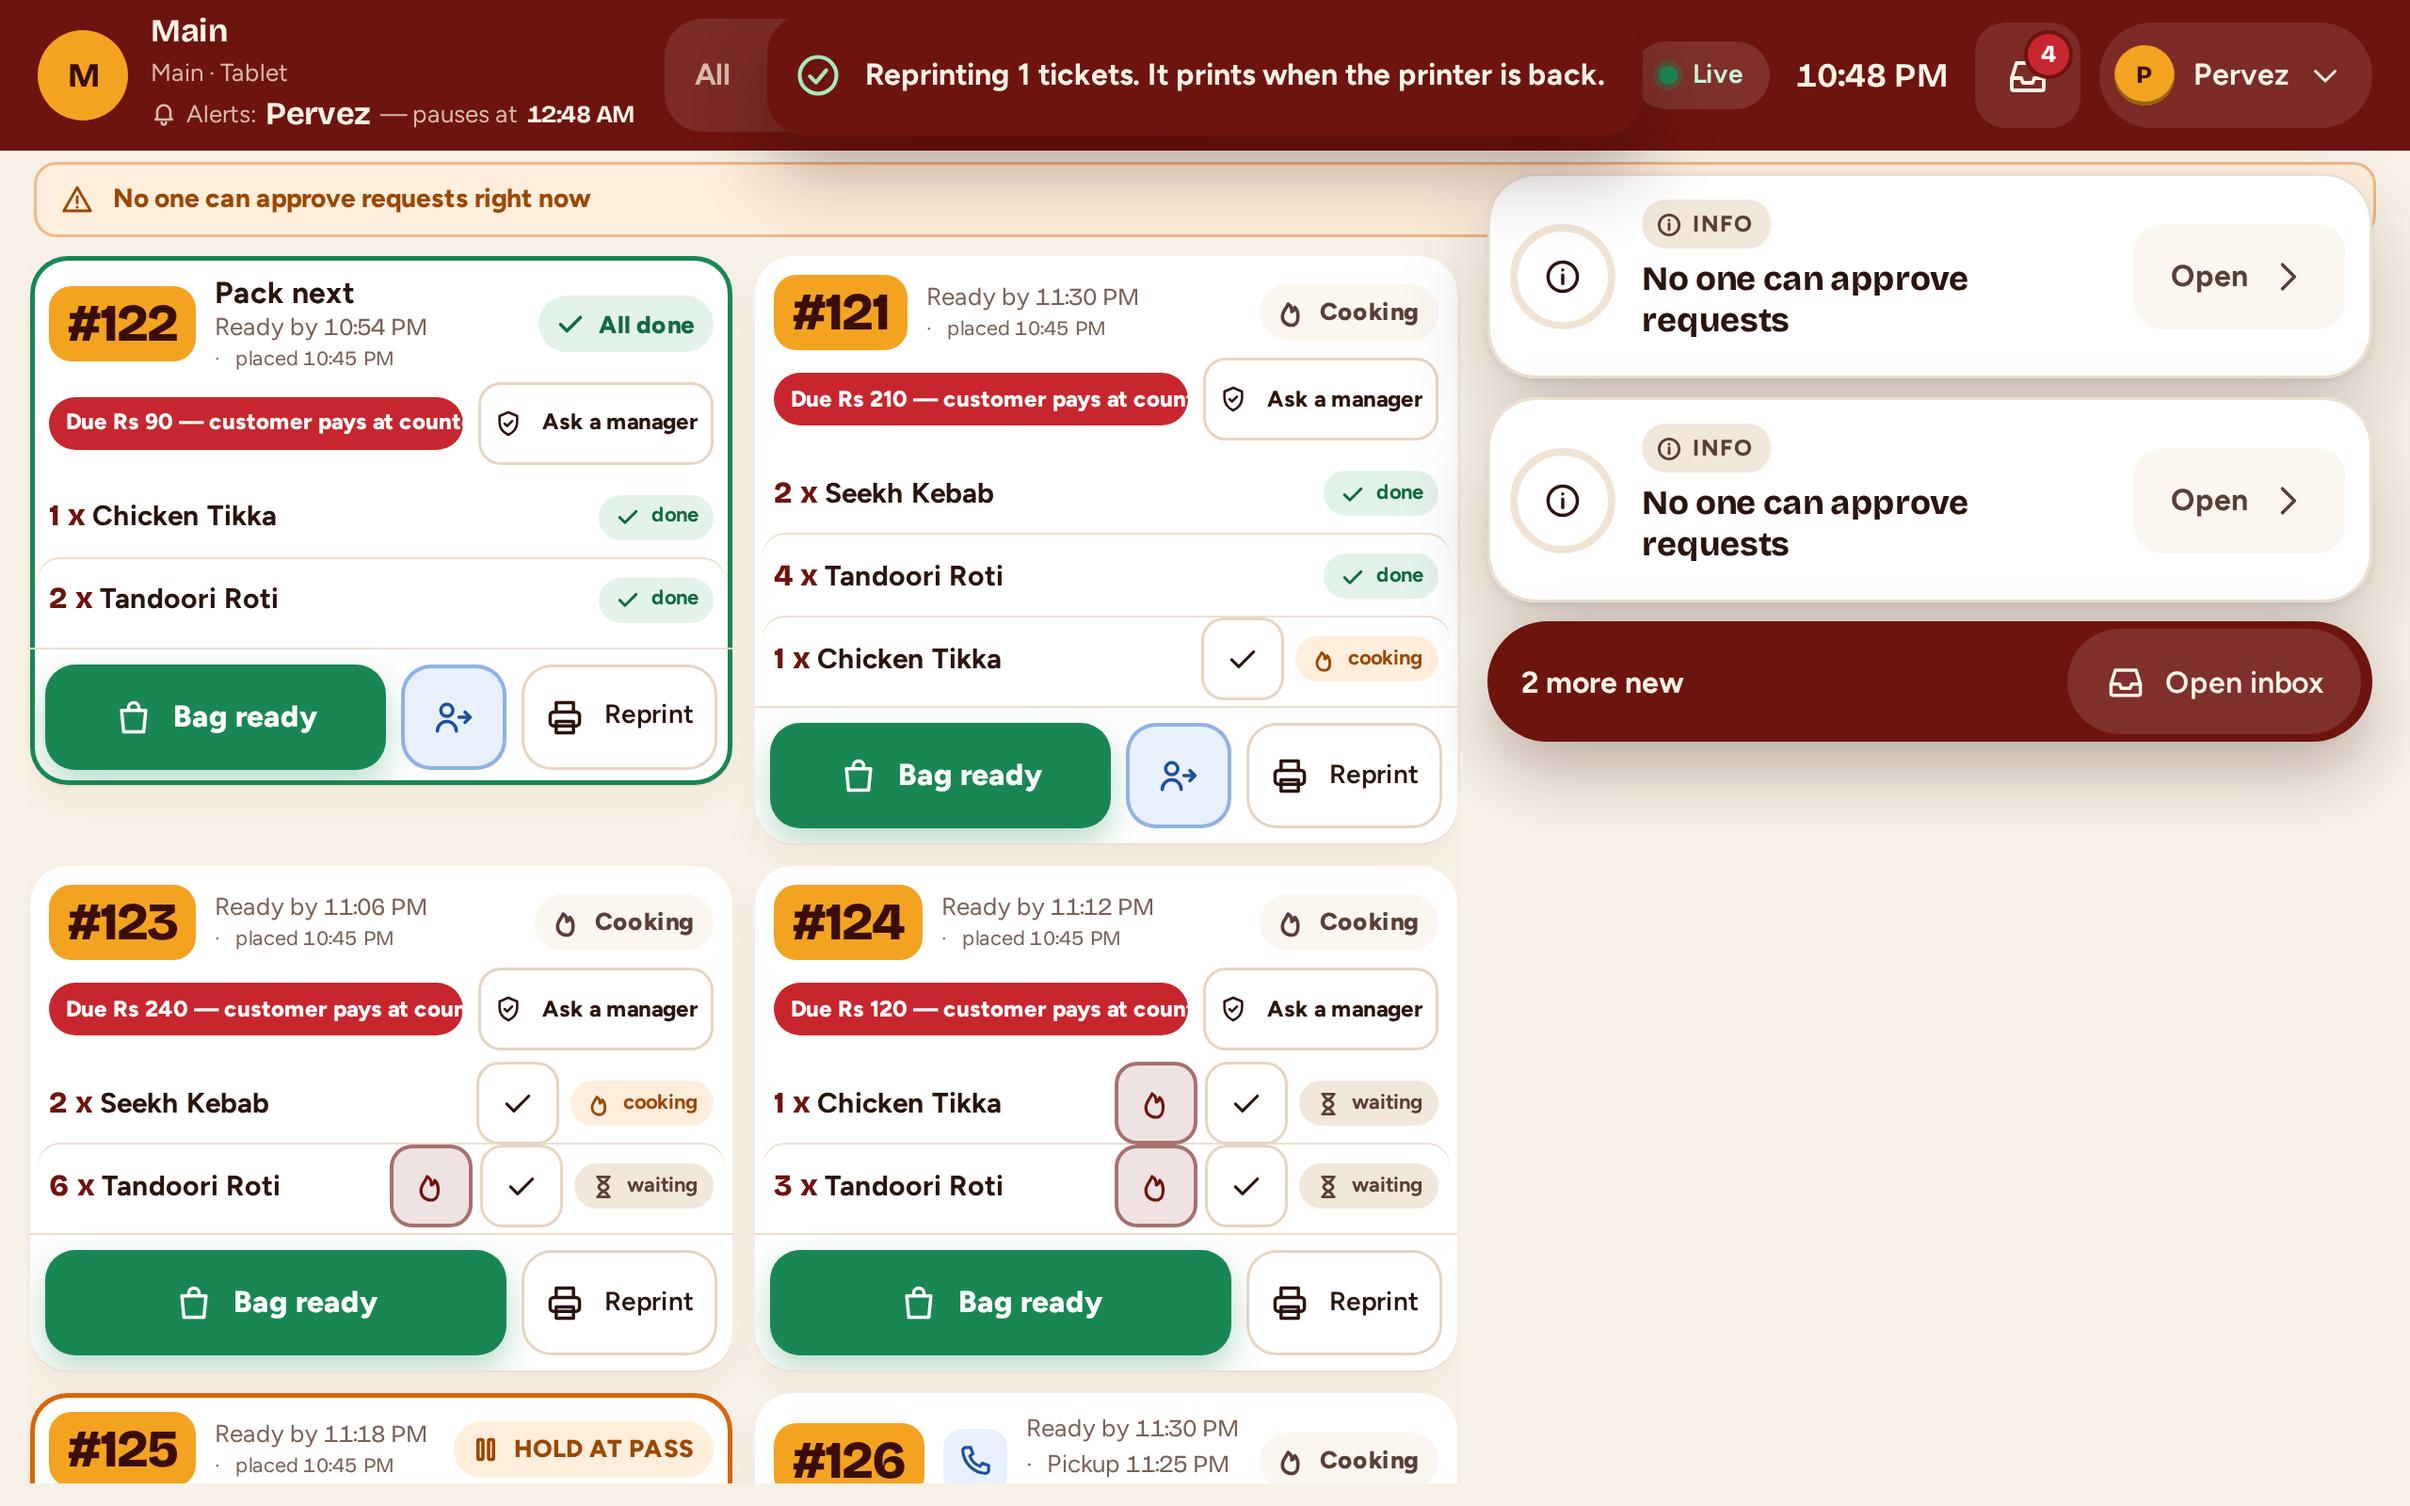
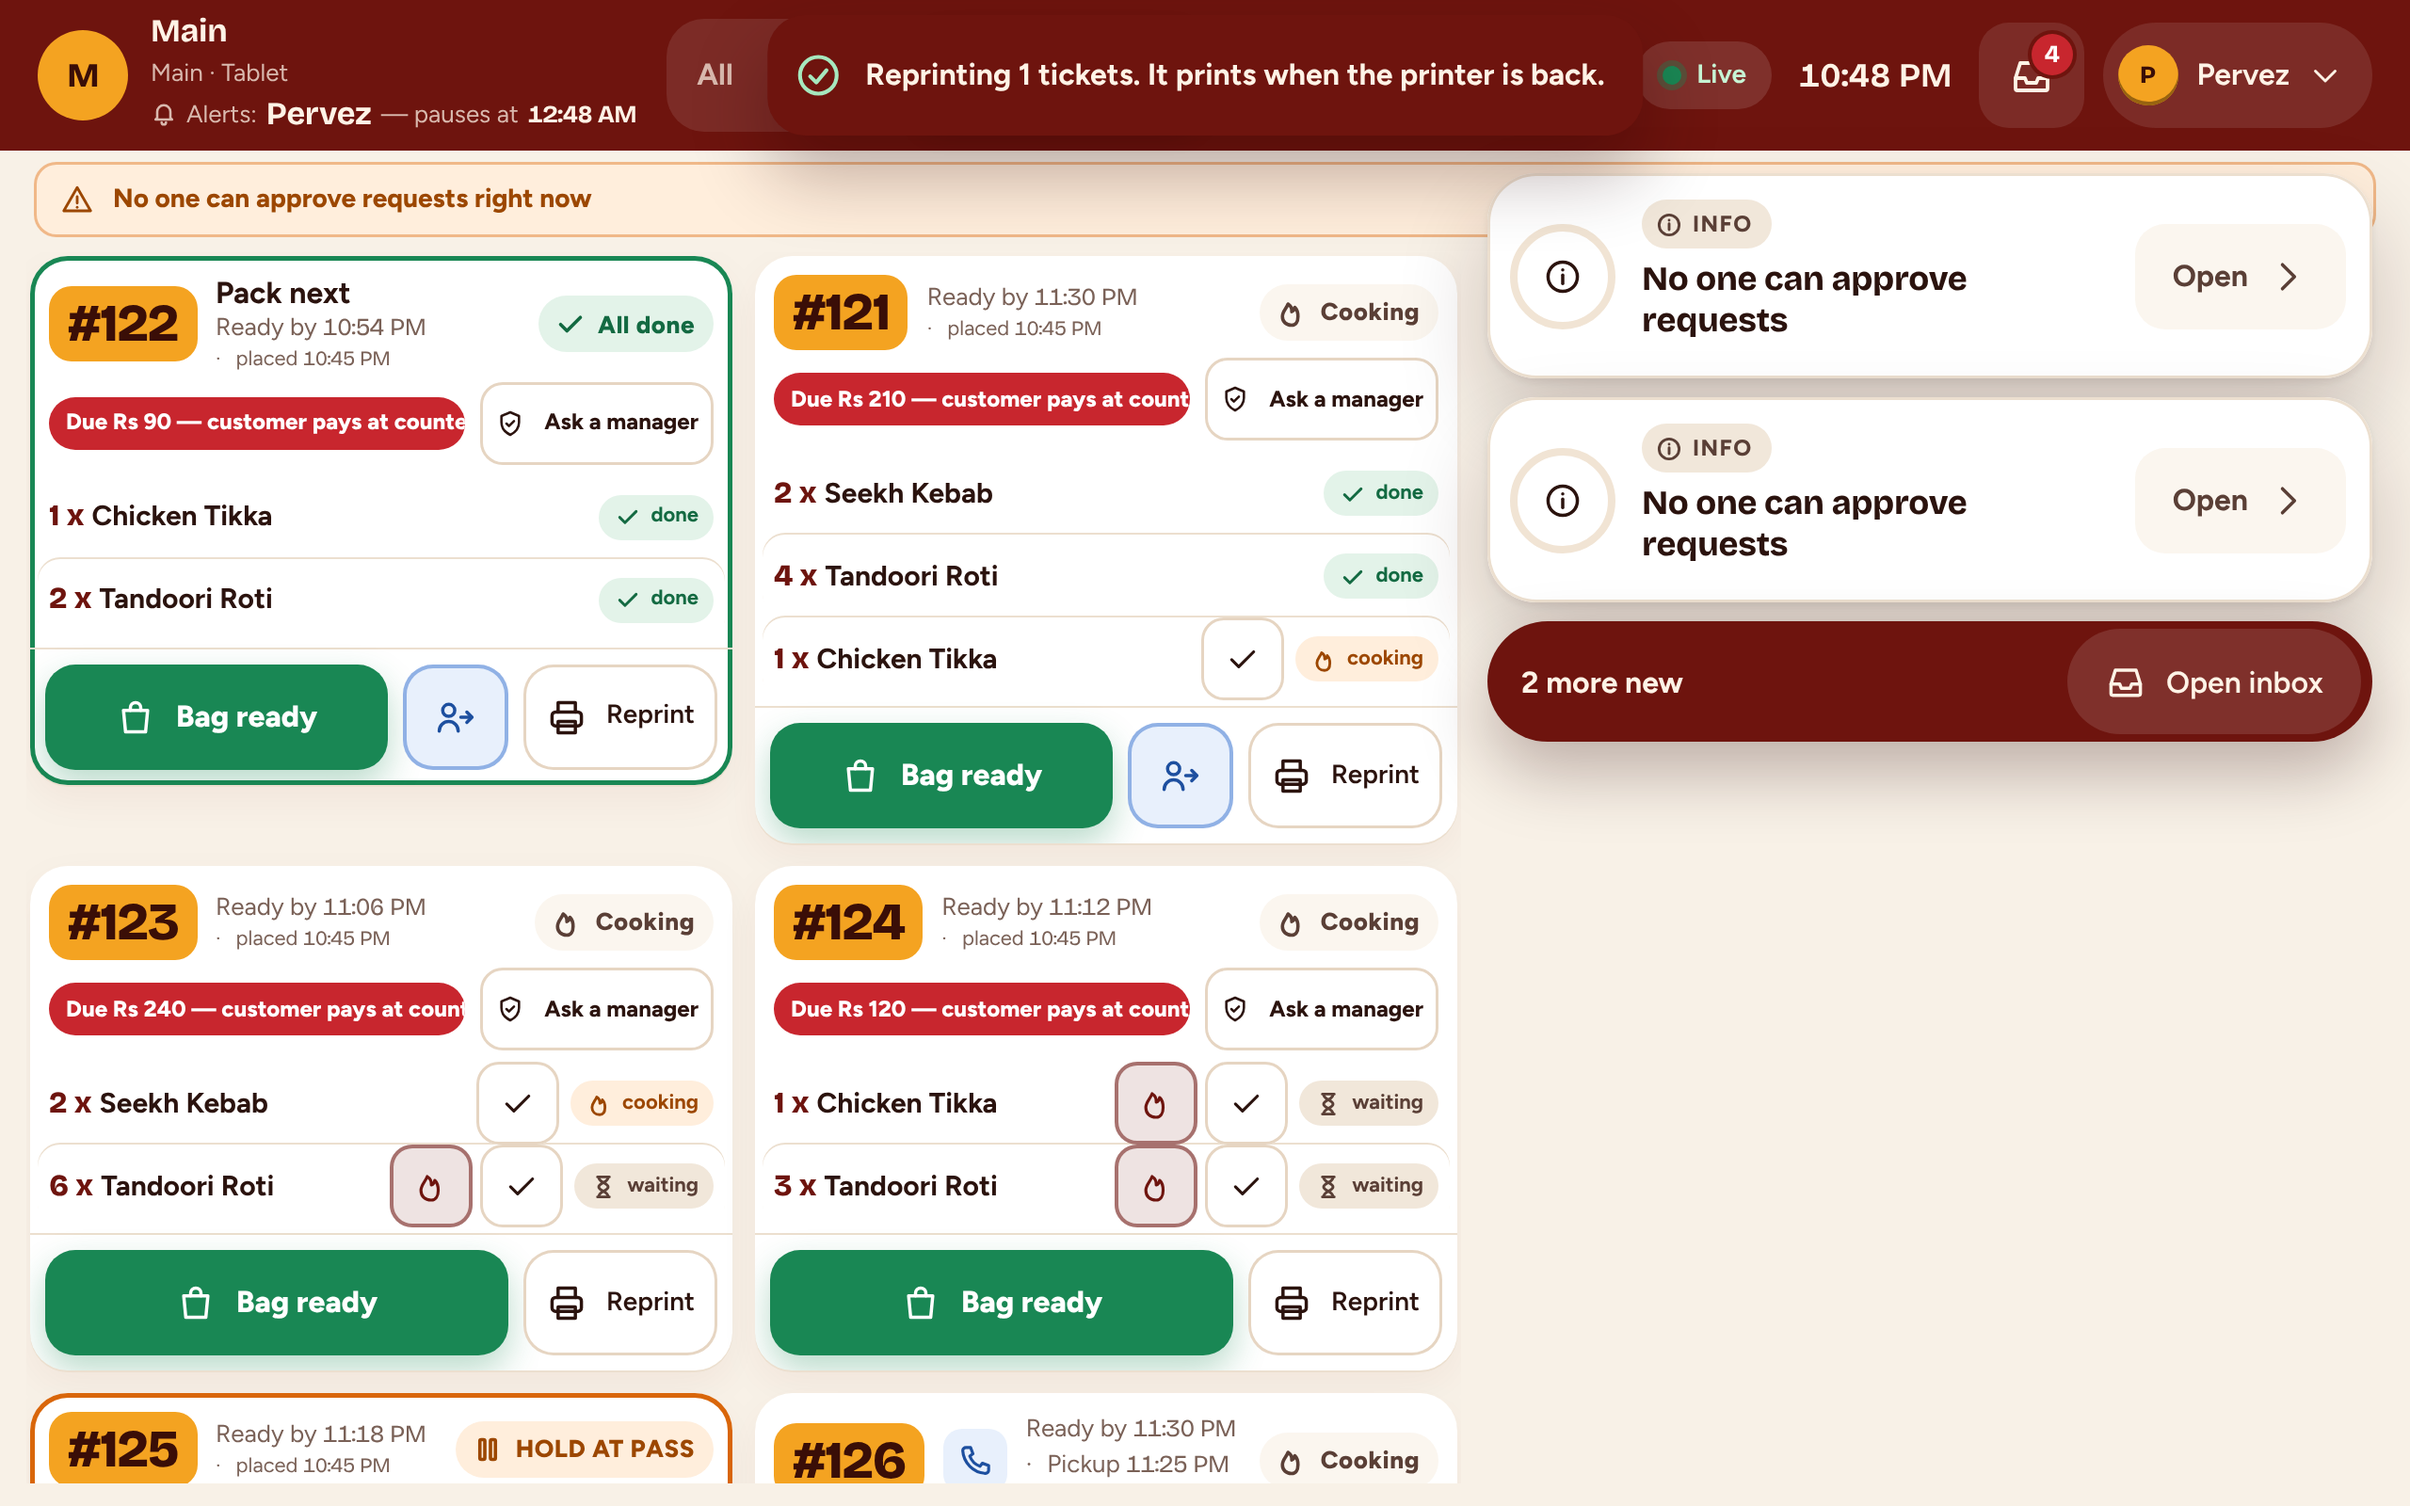
fix(client): the sign-in summary toast's action reads Open inbox (not a second "Inbox" button beside the header's) [02b v1.0.28 §8 QK-8]
Claude-Session: https://claude.ai/code/session_01DTZfXLBHeb7Fn44L4a7jmr

diff --git a/apps/client/src/features/staff/StaffApp.tsx b/apps/client/src/features/staff/StaffApp.tsx
@@ -1326,7 +1326,7 @@ function StaffSession({ device, meta, fetch, createSocket, sink, timers, wipeKey
   useEffect(() => {
     if (summary.text === null || summaryShown.current) return;
     summaryShown.current = true;
-    toasts.show({ text: summary.text, tone: 'warn', action: { label: t('alerts.nav.inbox'), run: () => navigate('/inbox') } });
+    toasts.show({ text: summary.text, tone: 'warn', action: { label: t('alerts.open_inbox'), run: () => navigate('/inbox') } });
   }, [summary.text, toasts]);
   const lang = language();
   // ⚠ 02b v1.0.28 QK-3: a language picked in the person menu re-renders the page (its root is keyed by the language)
